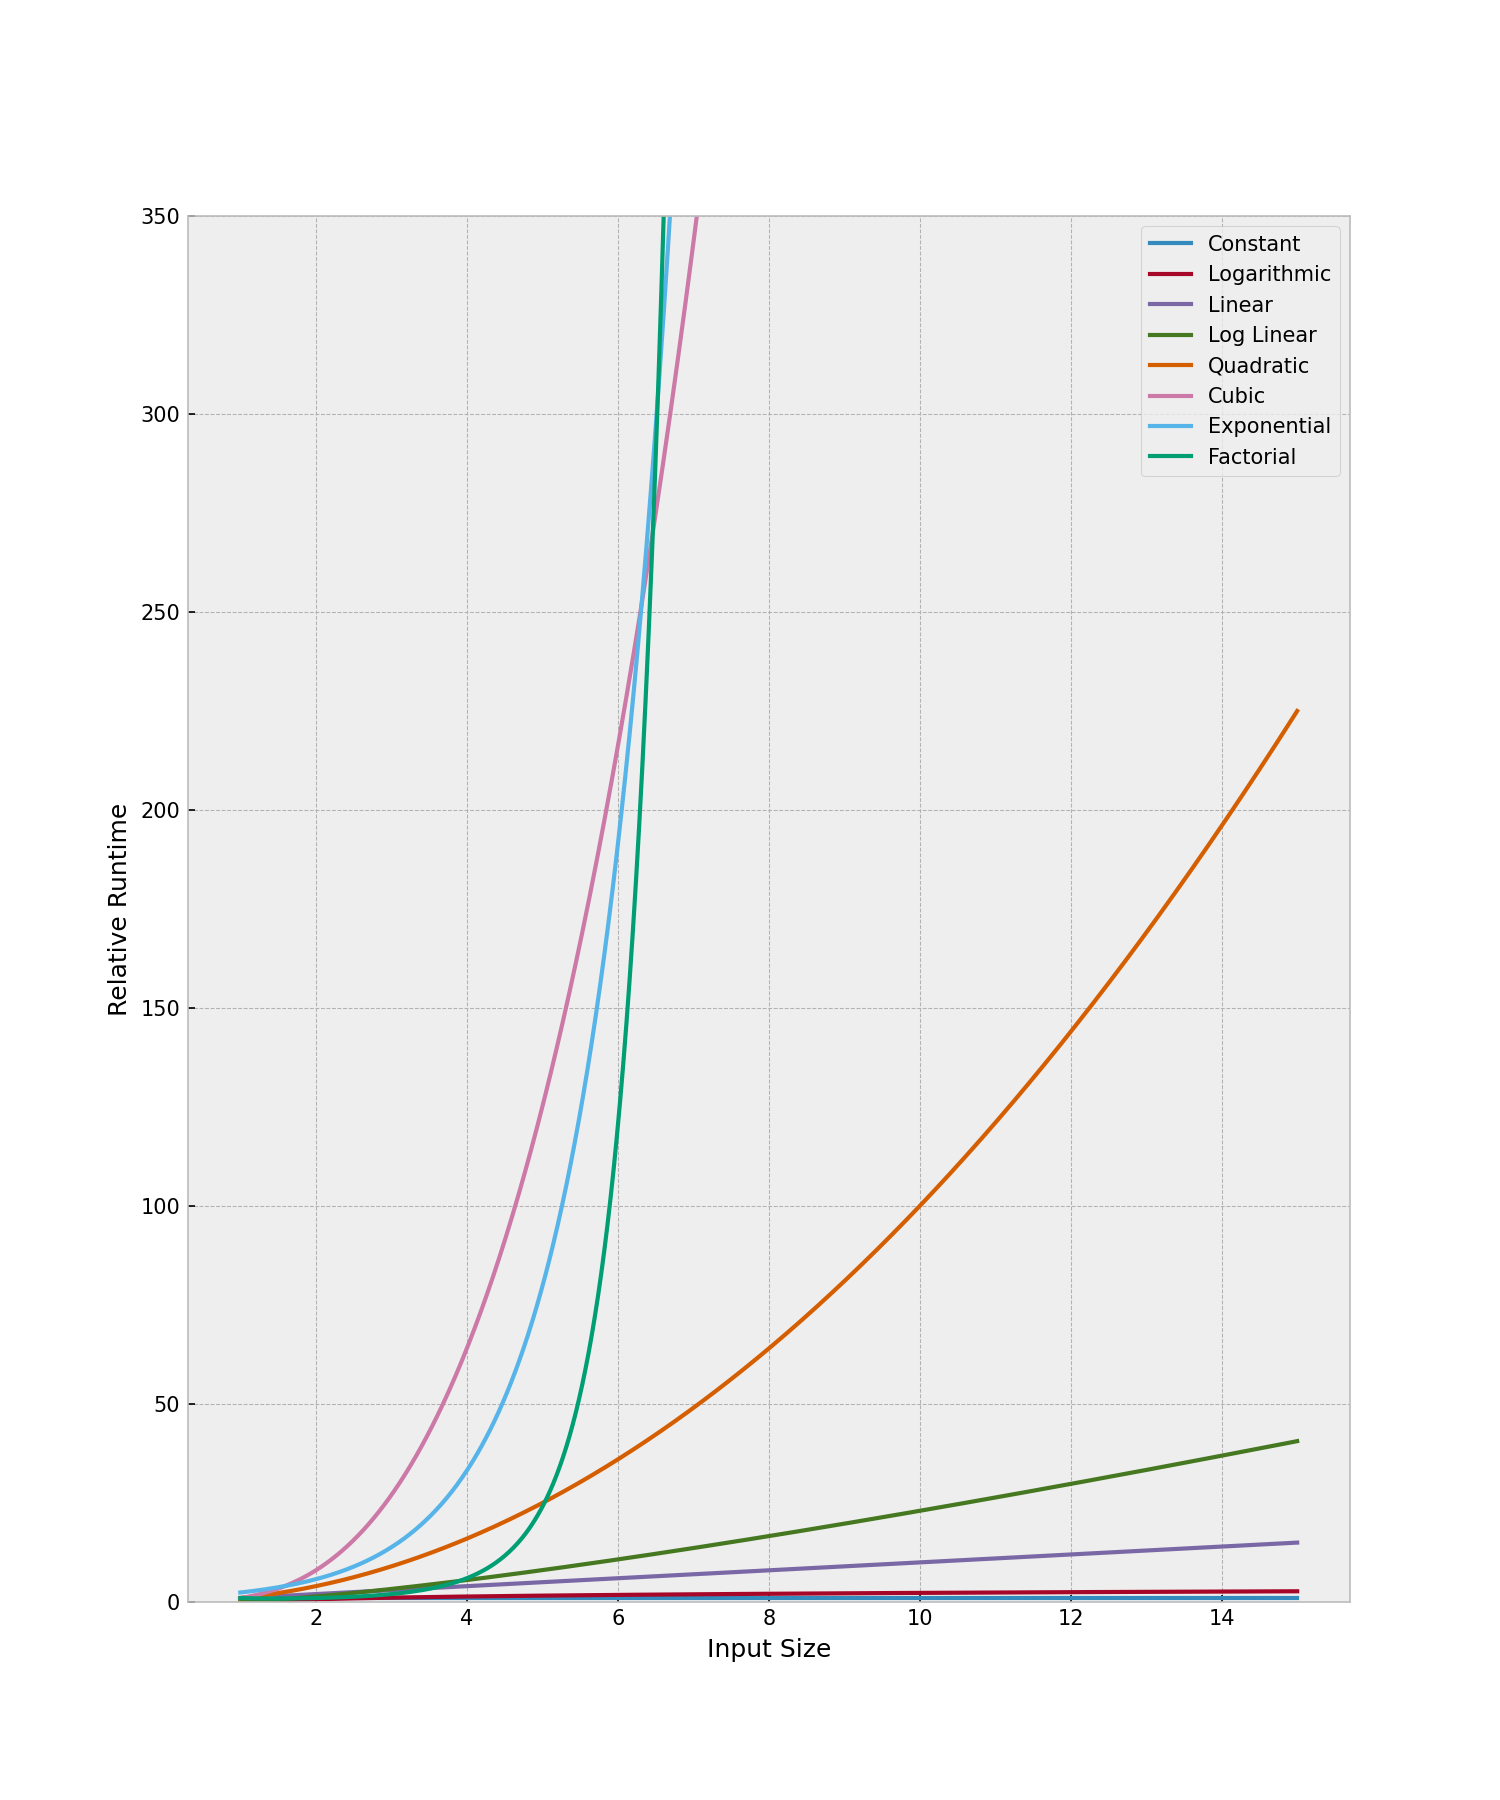
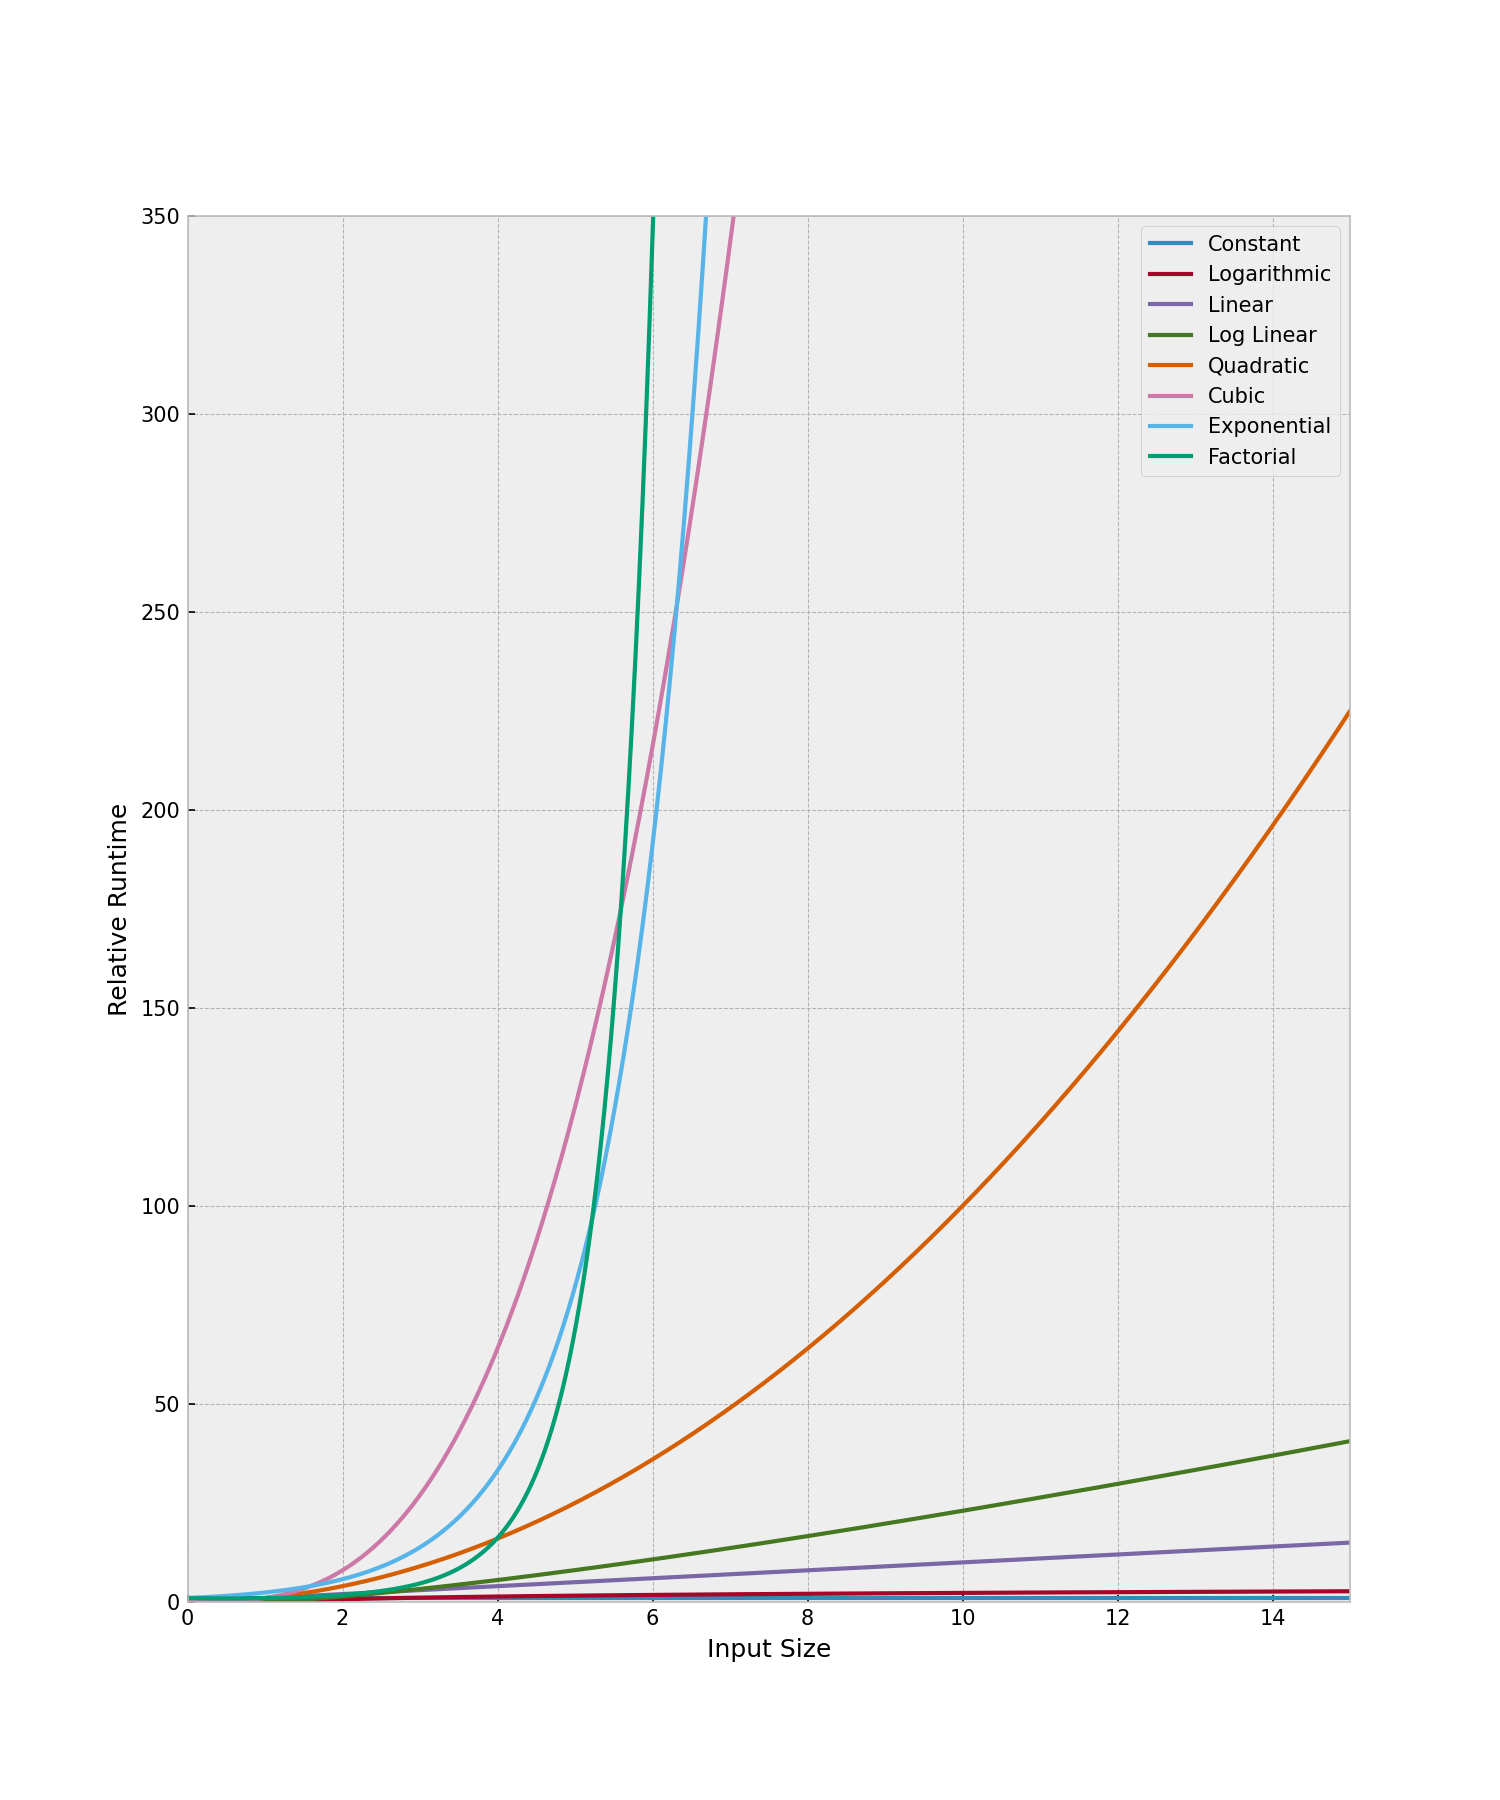
O-Notation: log(n) graph

diff --git a/big_o_graph.py b/big_o_graph.py
@@ -25,13 +25,15 @@ from scipy.special import gamma
 plt.style.use('bmh')
 
 # Set up runtime comparisons
-n = np.linspace(1, 15, 1000)
+n = np.linspace(0, 15, 1000)
+n_ab_1 = np.linspace(1, 15, 1000)
 labels = ['Constant', 'Logarithmic', 'Linear', 'Log Linear', 'Quadratic', 'Cubic', 'Exponential', 'Factorial']
-big_o = [np.ones(n.shape), np.log(n), n, n * np.log(n), n ** 2, n ** 3, 2.4 ** n, gamma(n)]
+big_o = [np.ones(n.shape), np.log(n), n, n * np.log(n), n ** 2, n ** 3, 2.4 ** n, gamma(n_ab_1)]
 
 # Plot setup
 plt.figure(figsize=(10, 12), dpi=150)
 plt.ylim(0, 350)
+plt.xlim(0, 15)
 
 for i in range(len(big_o)):
     plt.plot(n, big_o[i], label=labels[i])
